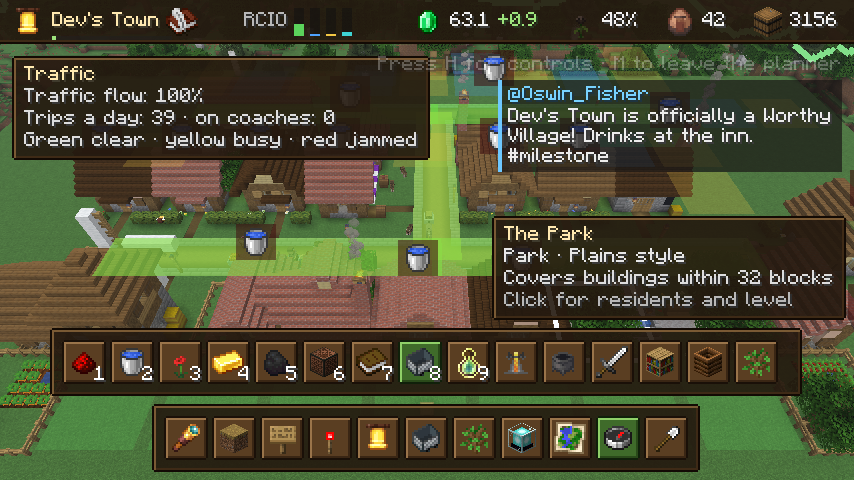
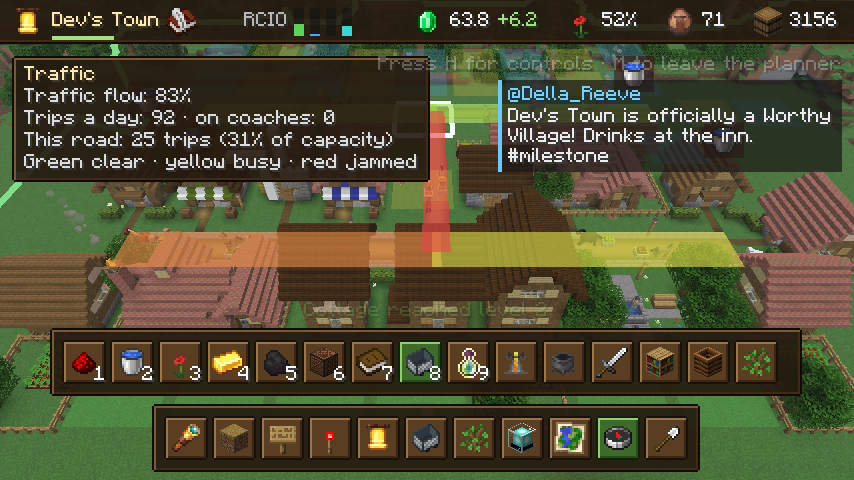
Stops leave lines when their road goes; docs and screenshots for traffic jams
Claude-Session: https://claude.ai/code/session_01FWydJUKzKi7zFDJb2DjUpZ

diff --git a/src/main/java/com/cloudkingtv/townstead/transit/CoachLines.java b/src/main/java/com/cloudkingtv/townstead/transit/CoachLines.java
@@ -93,8 +93,13 @@ public final class CoachLines {
         for (CoachLine line : List.copyOf(city.lines())) {
             List<CoachLine.Stop> kept = new ArrayList<>();
             for (int i = 0; i < line.stops().size(); i++) {
-                if (line.access(router, i) != null) kept.add(line.stops().get(i));
-                else clearStop(level, line.stops().get(i));
+                CoachLine.Stop s = line.stops().get(i);
+                // Gone with its road: its segment no longer exists and its post went with the sidewalk (or no road
+                // is near it at all). A segment merely split by a junction keeps its post, and the stop.
+                boolean segmentGone = router.network().segment(s.segment()) == null;
+                boolean postGone = !s.marker().equals(s.bench()) && !level.getBlockState(s.marker()).is(Blocks.SPRUCE_FENCE);
+                if (line.access(router, i) == null || segmentGone && postGone) clearStop(level, s);
+                else kept.add(s);
             }
             if (kept.size() == line.stops().size()) continue;
             if (kept.size() < 2) {

diff --git a/README.md b/README.md
@@ -195,7 +195,8 @@ slower.
 
 24. **Traffic.** Everyone who works drives to work, households run errands to the nearest shop
     and workshops deliver to shops. These trips are routed over your road network and pile up
-    on its roads: lanes carry about 40 trips a day before they slow, streets 100, avenues 260.
+    on its roads: lanes carry about 30 trips a day before they slow, streets 80, avenues 200. A
+    single lane joining two busy streets jams by around 70 people; carts on a jammed road crawl.
     The **traffic info view** (Info tool, **8**) colours every road green, yellow or red and
     shows the town's *traffic flow* (100% means nobody is held up). Jammed commutes make people
     unhappy, and busier roads are louder.
@@ -206,7 +207,8 @@ slower.
     People who live and work near stops of the same line ride it instead of driving: that takes
     trips off the roads and earns fares, while the coaches cost upkeep from the new Transport
     budget line. Homes near a stop are a little happier. The panel at the top left lists each
-    line's stops, coaches, riders and length; **3** removes a line and its stops.
+    line's stops, coaches, riders and length; **3** removes a line and its stops. Bulldozing a
+    road takes its stops down too.
 26. **Carts and coaches on the streets.** Horse, donkey and mule carts loaded with hay, barrels,
     logs and produce drive the roads, more on busier ones, keeping to the right. Coaches in
     their line's colours (two horses, passengers aboard) run every line and wait at each stop.
@@ -221,13 +223,15 @@ disasters, monuments) is next. See the roadmap.
 
 ## Screenshots (from the headless playtests)
 
-Phase 6: the traffic info view, drawing a coach line and the line on the map, a coach with its
+Phase 6: a jammed lane in the traffic info view and the same town after a second street,
+drawing a coach line and the line on the map, a coach with its
 passengers, a hay cart, a stop by the road, the budget with fares and a Transport line, and a
 citizen who says who they are.
 
 | | |
 |---|---|
-| ![Traffic info view: roads by load, traffic flow](docs/screenshots/phase6-traffic.png) | ![Drawing a coach line: stops and route](docs/screenshots/phase6-line-draft.png) |
+| ![Traffic info view: a jammed lane (red) carrying all cross-town traffic, flow 83%](docs/screenshots/phase6-traffic.png) | ![After a second street: flow back to 94%](docs/screenshots/phase6-traffic-relieved.png) |
+| ![Drawing a coach line: stops and route](docs/screenshots/phase6-line-draft.png) | ![Carts on the busy lane](docs/screenshots/phase6-lane-carts.png) |
 | ![The Red line on the map, with its numbers](docs/screenshots/phase6-lines.png) | ![A coach: two horses and passengers](docs/screenshots/phase6-coach.png) |
 | ![A mule cart with hay, keeping right](docs/screenshots/phase6-cart.png) | ![A coach stop: post, banner and bench](docs/screenshots/phase6-stop.png) |
 | ![Budget: coach fares and Transport upkeep](docs/screenshots/phase6-budget.png) | ![A citizen: home, work and mood](docs/screenshots/phase6-citizen.png) |

diff --git a/docs/design/minecraft-adaptation.md b/docs/design/minecraft-adaptation.md
@@ -500,19 +500,23 @@ Feedback: buildings were all one size and grew upward; the town looked stacked a
   segment to a point on another, leaving and entering segments part-way. Shared by traffic, coach
   lines and the vehicles drawn on the streets. Speeds: lane 1.0, street 1.3, avenue 1.8.
 - **Traffic** (`sim.Traffic`, part of the shared `TownModel`): trips are commutes (each filled job,
-  home to workplace), errands (half a trip per household to the nearest shop) and deliveries (0.3
-  per workshop job to the nearest shop). Identical trips merge; each is assigned a quarter at a
+  home to workplace and back: 2 trips), errands (a round trip per two households to the nearest
+  shop: 1 trip per household) and deliveries (0.6 per workshop job to the nearest shop). Identical trips merge; each is assigned a quarter at a
   time over four rounds, every round routing on travel times that include the previous rounds'
-  congestion (BPR: t = t0 × (1 + 0.15 (v/c)^4)). Capacities per day: lane 40, street 100, avenue
-  260. Outputs: flow and v/c per segment, each home's commute delay, and the town's *traffic flow*
+  congestion (BPR: t = t0 × (1 + 0.15 (v/c)^4)). Capacities per day: lane 30, street 80, avenue
+  200 (tuned after the first playtest, where a 50-person town never passed a third of any road's
+  capacity; now a lane carrying a town's cross traffic jams at around 70 people). Outputs: flow and v/c per segment, each home's commute delay, and the town's *traffic flow*
   (free-flow time over actual time, as in Cities: Skylines).
+- **Carts crawl in jams:** a cart's speed is divided by the same BPR factor as the road it's on.
 - **Effects:** homes whose commutes take over 25% longer lose up to 12 happiness ("Stuck in
   traffic"); road noise now scales with load (40% of the old figure on an empty road, up to 160%
   jammed); the traffic info view colours roads by v/c and reads out a hovered road's trips.
 - **Coach lines** (`transit.CoachLine`, `transit.CoachLines`): loops of 2–24 stops drawn with the
   Transport tool, up to 8 per town, 0.5 emerald a stop. Stops are real blocks: a spruce post with a
   standing banner in the line colour and a spruce-stair bench, removed with the line. Stops keep
-  their post position, so a road split by a new junction or rebuilt is found again by position.
+  their post position, so a road split by a new junction or rebuilt is found again by position. When
+  a road is bulldozed (or its building undone), stops that went with it come down and leave their
+  line; a line left with fewer than two stops is removed.
   The **Coach House** (2×1 lot, a timber stable with two coach doors and a paddock; unlocked at
   Worthy Village; new Transport department) is needed for coaches to run. A line runs one coach
   per 90 blocks of route at a 100% budget. A commuter rides when home and work are each within 40
